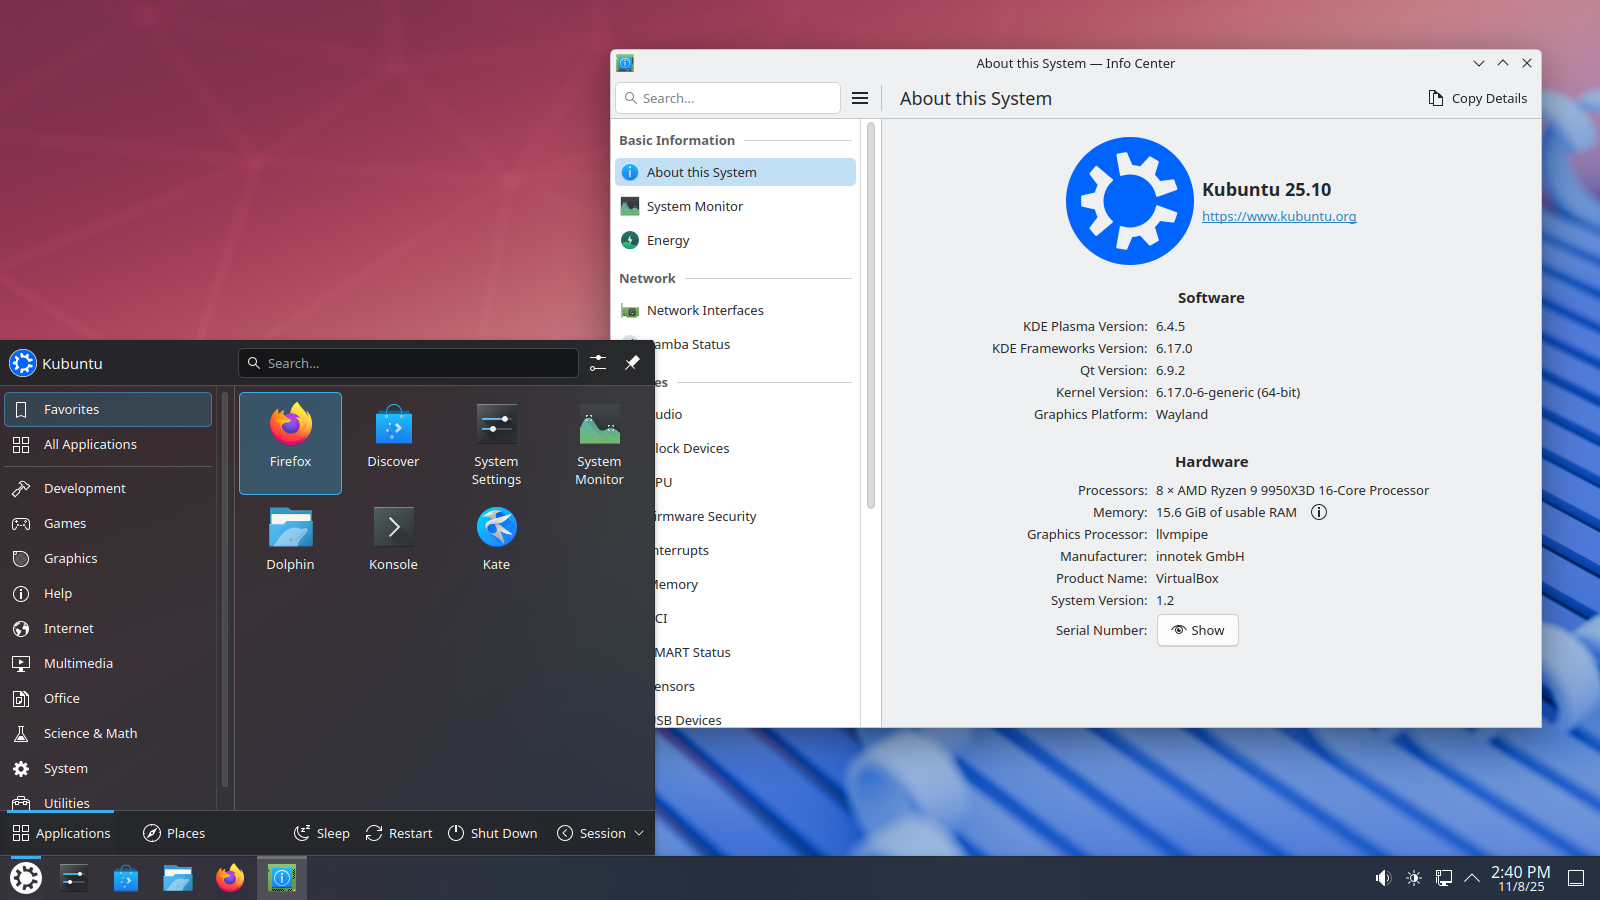
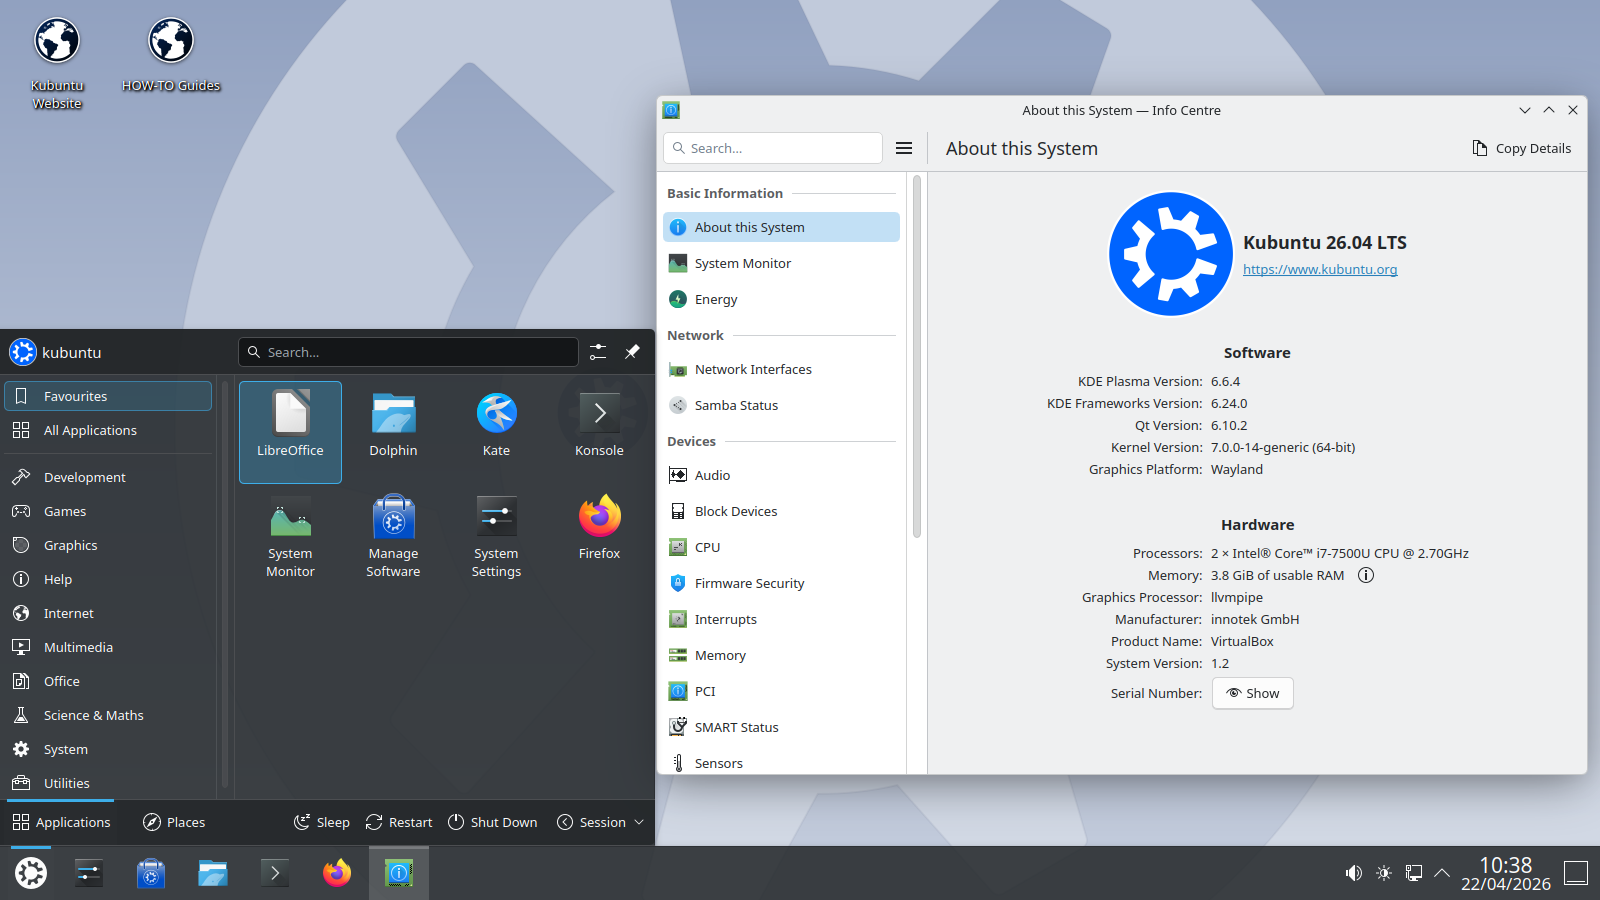
Update front page for 26.04.

diff --git a/content/en/_index.html b/content/en/_index.html
@@ -1,6 +1,6 @@
 ---
 title: "Kubuntu"
-description: "25.10 Questing Quokka - The Elegant Linux Distribution"
+description: "26.04 LTS Resolute Raccoon - The Elegant Linux Distribution"
 theme_version: '24.10'
 featured_image: '/images/banners/home.png'
 ---
